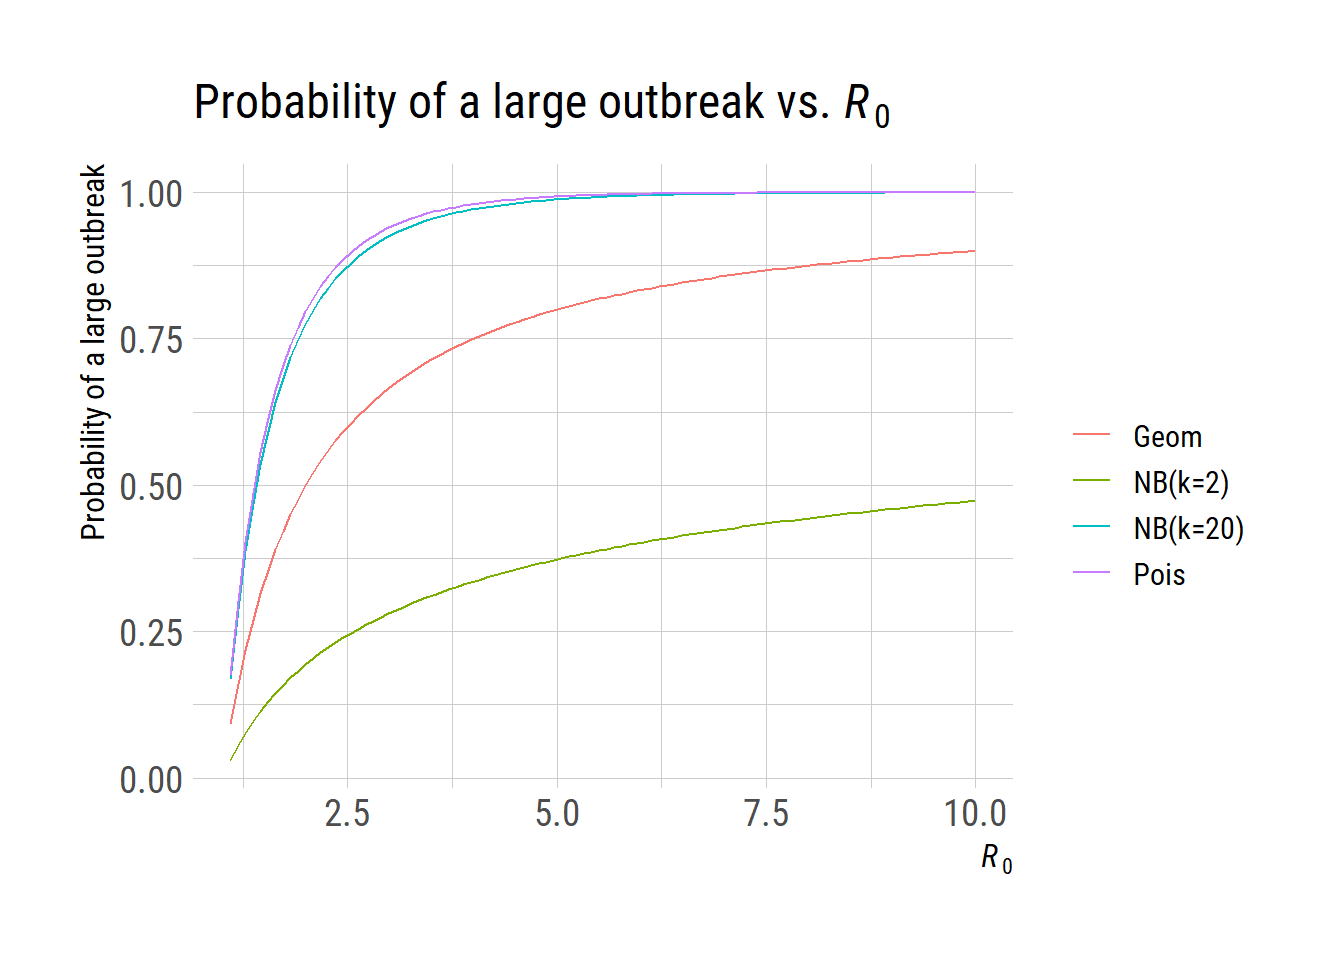
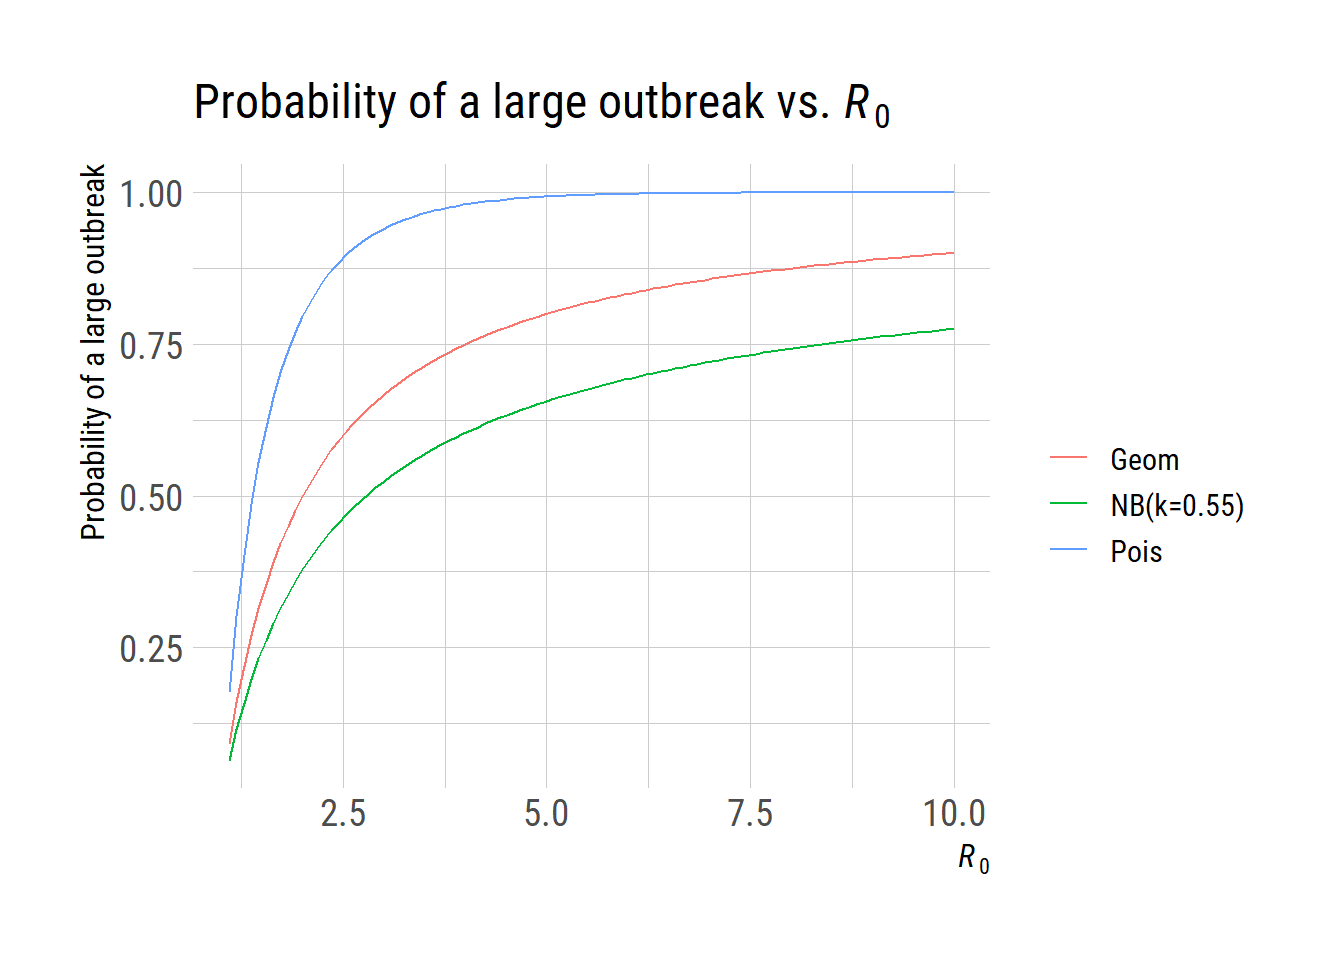
figure, k=0.55

diff --git a/docs/posts/Probabily_outbreak/index.html b/docs/posts/Probabily_outbreak/index.html
@@ -9,7 +9,7 @@
 <meta name="author" content="Jong-Hoon Kim">
 <meta name="dcterms.date" content="2024-03-04">
 
-<title>Jong-Hoon Kim’s Blog - 감염병 대유행 확률</title>
+<title>Jong-Hoon Kim’s Blog - 감염병의 대유행 가능성 계산하기</title>
 <style>
 code{white-space: pre-wrap;}
 span.smallcaps{font-variant: small-caps;}
@@ -144,7 +144,7 @@ pre > code.sourceCode > span > a:first-child::before { text-decoration: underlin
 <header id="title-block-header" class="quarto-title-block default page-columns page-full">
   <div class="quarto-title-banner page-columns page-full">
     <div class="quarto-title column-body">
-      <h1 class="title">감염병 대유행 확률</h1>
+      <h1 class="title">감염병의 대유행 가능성 계산하기</h1>
                                 <div class="quarto-categories">
                 <div class="quarto-category">probability of a large outbreak</div>
                 <div class="quarto-category">reproduction number</div>
@@ -202,7 +202,8 @@ pre > code.sourceCode > span > a:first-child::before { text-decoration: underlin
 <p><span class="math display">\[\text{Prob}(X=j) = (\frac{R_0}{1+R_0})^j \frac{1}{1+R_0}\]</span> 위에서와 동일하게 계산하면 아래와 같다. <span class="math display">\[\sum_{j=0}^\infty p_j \theta^{j} = \frac{1}{1 + R_0 - R_0 \theta}\]</span> 따라서 아래의 식을 풀면 <span class="math inline">\(\theta\)</span>를 구할 수 있다.</p>
 <p><span class="math display">\[\theta = \frac{1}{1 + R_0 - R_0 \theta}.\]</span></p>
 <p><span class="math display">\[\theta = \frac{1}{R_0}.\]</span></p>
-<p>따라서 <a href="https://www.yes24.com/Product/Goods/99051113?ReviewYn=Y">감염병 인류</a> 책에서 언급된 것처럼 <span class="math display">\[\text{대유행의 가능성} = 1 - \frac{1}{R_0}.\]</span> 마지막으로 후속 감염자수가 이항분포 (negative binomial distribution)을 따른다고 가정해보자. 최근 연구들에서 빈번하게 언급되고 가장 현실에 가까운 가정인 듯 하다. 이항분포를 다양한 모수를 사용하여 표현할 수 있고 평균 <span class="math inline">\(R_0\)</span>과 확산(dispersion; <span class="math inline">\(k\)</span>)를 이용하여 나타내면 아래와 같다.</p>
+<p>따라서 <a href="https://www.yes24.com/Product/Goods/99051113?ReviewYn=Y">감염병 인류</a> 책에서 언급된 것처럼 <span class="math display">\[\text{대유행의 가능성} = 1 - \frac{1}{R_0}.\]</span> 마지막으로 후속 감염자수가 이항분포 (negative binomial distribution)을 따른다고 가정해보자. 최근 연구들에서 빈번하게 언급되고 가장 현실에 가까운 가정인 듯 하다.</p>
+<p>다양한 모수를 사용하여 표현할 수 있고 평균 <span class="math inline">\(R_0\)</span>과 확산(dispersion; <span class="math inline">\(k\)</span>)를 이용하여 나타내면 아래와 같다. 이항 분포는 <span class="math inline">\(k=1\)</span>일 때는 기하분포와 동일하고 <span class="math inline">\(k=\infty\)</span> 일때는 푸아송분포와 동일하다. 코로나 19의 경우 <span class="math inline">\(k\)</span> 값이 약 <a href="https://www.ncbi.nlm.nih.gov/pmc/articles/PMC9349569/">0.55</a>이다.</p>
 <p><span class="math display">\[\text{Prob}(X=j) = \frac{\Gamma(k+j)}{j!\Gamma(k)}\left(\frac{k}{k+R_0}\right)^k\left(\frac{R_0}{k+R_0}\right)^j \text{ for } k=0,1,2,...\]</span> The probability of a minor outbreak, 위와 동일한 방법으로 계산하면 우변은 아래와 같다.</p>
 <p><span class="math display">\[\sum_{j=0}^\infty p_j \theta^{j} = \left(\frac{k}{k + R_0 - R_0 \theta}\right)^k\]</span> 따라서 <span class="math display">\[\theta = \left(\frac{k}{k + R_0 - R_0 \theta}\right)^k\]</span>를 계산하여 소규모감염의 확률을 계산하고 <span class="math inline">\(1-\theta\)</span>를 계산하여 대규모유행 확률을 계산하면 된다.</p>
 <p>R 시물레이션을 통해서 세방법이 어떻게 다른 결과를 나타내는지 살펴보자</p>
@@ -210,7 +211,7 @@ pre > code.sourceCode > span > a:first-child::before { text-decoration: underlin
 <div class="sourceCode cell-code" id="cb1"><pre class="sourceCode r code-with-copy"><code class="sourceCode r"><span id="cb1-1"><a href="#cb1-1" aria-hidden="true" tabindex="-1"></a>prob_outbreak_pois <span class="ot">=</span> <span class="cf">function</span>(theta, R0){</span>
 <span id="cb1-2"><a href="#cb1-2" aria-hidden="true" tabindex="-1"></a>  theta <span class="sc">-</span> <span class="fu">exp</span>(<span class="sc">-</span>R0 <span class="sc">+</span> R0<span class="sc">*</span>theta) </span>
 <span id="cb1-3"><a href="#cb1-3" aria-hidden="true" tabindex="-1"></a>}</span>
-<span id="cb1-4"><a href="#cb1-4" aria-hidden="true" tabindex="-1"></a>prob_outbreak_geo <span class="ot">=</span> <span class="cf">function</span>(theta, R0){</span>
+<span id="cb1-4"><a href="#cb1-4" aria-hidden="true" tabindex="-1"></a>prob_outbreak_geo <span class="ot">=</span> <span class="cf">function</span>(R0){</span>
 <span id="cb1-5"><a href="#cb1-5" aria-hidden="true" tabindex="-1"></a>  <span class="dv">1</span><span class="sc">/</span>R0 </span>
 <span id="cb1-6"><a href="#cb1-6" aria-hidden="true" tabindex="-1"></a>}</span>
 <span id="cb1-7"><a href="#cb1-7" aria-hidden="true" tabindex="-1"></a>prob_outbreak_nb <span class="ot">=</span> <span class="cf">function</span>(theta, R0, k){</span>
@@ -224,28 +225,26 @@ pre > code.sourceCode > span > a:first-child::before { text-decoration: underlin
 <span id="cb1-15"><a href="#cb1-15" aria-hidden="true" tabindex="-1"></a>Rs <span class="ot">&lt;-</span> <span class="fu">seq</span>(<span class="fl">1.1</span>, <span class="dv">10</span>, <span class="at">length.out=</span><span class="dv">100</span>)</span>
 <span id="cb1-16"><a href="#cb1-16" aria-hidden="true" tabindex="-1"></a>theta1 <span class="ot">&lt;-</span> <span class="fu">sapply</span>(Rs, <span class="cf">function</span>(x) </span>
 <span id="cb1-17"><a href="#cb1-17" aria-hidden="true" tabindex="-1"></a>  <span class="fu">min</span>(rootSolve<span class="sc">::</span><span class="fu">multiroot</span>(prob_outbreak_pois, <span class="fu">c</span>(<span class="dv">0</span>, <span class="dv">1</span>), <span class="at">R0=</span>x)<span class="sc">$</span>root))</span>
-<span id="cb1-18"><a href="#cb1-18" aria-hidden="true" tabindex="-1"></a>theta2 <span class="ot">&lt;-</span> <span class="fu">sapply</span>(Rs, <span class="cf">function</span>(x) <span class="dv">1</span><span class="sc">/</span>x)</span>
+<span id="cb1-18"><a href="#cb1-18" aria-hidden="true" tabindex="-1"></a>theta2 <span class="ot">&lt;-</span> <span class="fu">sapply</span>(Rs, <span class="cf">function</span>(x) <span class="fu">prob_outbreak_geo</span>(x))</span>
 <span id="cb1-19"><a href="#cb1-19" aria-hidden="true" tabindex="-1"></a>theta3 <span class="ot">&lt;-</span> <span class="fu">sapply</span>(Rs, <span class="cf">function</span>(x) </span>
-<span id="cb1-20"><a href="#cb1-20" aria-hidden="true" tabindex="-1"></a>  <span class="fu">min</span>(rootSolve<span class="sc">::</span><span class="fu">multiroot</span>(prob_outbreak_nb, <span class="fu">c</span>(<span class="dv">0</span>, <span class="dv">1</span>), <span class="at">R0=</span>x, <span class="at">k=</span><span class="dv">20</span>)<span class="sc">$</span>root))</span>
-<span id="cb1-21"><a href="#cb1-21" aria-hidden="true" tabindex="-1"></a>theta4 <span class="ot">&lt;-</span> <span class="fu">sapply</span>(Rs, <span class="cf">function</span>(x) </span>
-<span id="cb1-22"><a href="#cb1-22" aria-hidden="true" tabindex="-1"></a>  <span class="fu">min</span>(rootSolve<span class="sc">::</span><span class="fu">multiroot</span>(prob_outbreak_nb, <span class="fu">c</span>(<span class="dv">0</span>, <span class="dv">1</span>), <span class="at">R0=</span>x, <span class="at">k=</span><span class="fl">0.2</span>)<span class="sc">$</span>root))</span>
-<span id="cb1-23"><a href="#cb1-23" aria-hidden="true" tabindex="-1"></a></span>
-<span id="cb1-24"><a href="#cb1-24" aria-hidden="true" tabindex="-1"></a>df <span class="ot">&lt;-</span> <span class="fu">data.frame</span>(<span class="at">R0=</span><span class="fu">rep</span>(Rs,<span class="dv">4</span>), </span>
-<span id="cb1-25"><a href="#cb1-25" aria-hidden="true" tabindex="-1"></a>                 <span class="at">dist=</span><span class="fu">rep</span>(<span class="fu">c</span>(<span class="st">"Pois"</span>,<span class="st">"Geom"</span>,<span class="st">"NB(k=20)"</span>,<span class="st">"NB(k=2)"</span>),<span class="at">each=</span><span class="dv">100</span>),</span>
-<span id="cb1-26"><a href="#cb1-26" aria-hidden="true" tabindex="-1"></a>                 <span class="at">prob_outbreak=</span><span class="fu">c</span>(<span class="dv">1</span><span class="sc">-</span>theta1,<span class="dv">1</span><span class="sc">-</span>theta2,<span class="dv">1</span><span class="sc">-</span>theta3,<span class="dv">1</span><span class="sc">-</span>theta4))</span>
-<span id="cb1-27"><a href="#cb1-27" aria-hidden="true" tabindex="-1"></a></span>
-<span id="cb1-28"><a href="#cb1-28" aria-hidden="true" tabindex="-1"></a><span class="fu">library</span>(ggplot2)</span>
-<span id="cb1-29"><a href="#cb1-29" aria-hidden="true" tabindex="-1"></a>extrafont<span class="sc">::</span><span class="fu">loadfonts</span>(<span class="st">"win"</span>, <span class="at">quiet=</span><span class="cn">TRUE</span>)</span>
-<span id="cb1-30"><a href="#cb1-30" aria-hidden="true" tabindex="-1"></a><span class="fu">theme_set</span>(hrbrthemes<span class="sc">::</span><span class="fu">theme_ipsum_rc</span>(<span class="at">base_size=</span><span class="dv">14</span>, <span class="at">subtitle_size=</span><span class="dv">16</span>, </span>
-<span id="cb1-31"><a href="#cb1-31" aria-hidden="true" tabindex="-1"></a>                                     <span class="at">axis_title_size=</span><span class="dv">12</span>))</span>
-<span id="cb1-32"><a href="#cb1-32" aria-hidden="true" tabindex="-1"></a></span>
-<span id="cb1-33"><a href="#cb1-33" aria-hidden="true" tabindex="-1"></a><span class="fu">ggplot</span>(df) <span class="sc">+</span></span>
-<span id="cb1-34"><a href="#cb1-34" aria-hidden="true" tabindex="-1"></a>  <span class="fu">geom_line</span>(<span class="fu">aes</span>(R0, prob_outbreak, <span class="at">color=</span>dist))<span class="sc">+</span></span>
-<span id="cb1-35"><a href="#cb1-35" aria-hidden="true" tabindex="-1"></a>  <span class="fu">ggtitle</span>(<span class="fu">expression</span>(<span class="st">"Probability of a large outbreak vs."</span> <span class="sc">~</span><span class="fu">italic</span>(R)[<span class="dv">0</span>])) <span class="sc">+</span></span>
-<span id="cb1-36"><a href="#cb1-36" aria-hidden="true" tabindex="-1"></a>  <span class="fu">labs</span>(<span class="at">y=</span><span class="st">"Probability of a large outbreak"</span>, <span class="at">x=</span><span class="fu">expression</span>(<span class="fu">italic</span>(R)[<span class="dv">0</span>]), <span class="at">color=</span><span class="st">""</span>)</span></code><button title="Copy to Clipboard" class="code-copy-button"><i class="bi"></i></button></pre></div>
+<span id="cb1-20"><a href="#cb1-20" aria-hidden="true" tabindex="-1"></a>   <span class="fu">min</span>(rootSolve<span class="sc">::</span><span class="fu">multiroot</span>(prob_outbreak_nb, <span class="fu">c</span>(<span class="dv">0</span>, <span class="dv">1</span>), <span class="at">R0=</span>x, <span class="at">k=</span><span class="fl">0.55</span>)<span class="sc">$</span>root))</span>
+<span id="cb1-21"><a href="#cb1-21" aria-hidden="true" tabindex="-1"></a>df <span class="ot">&lt;-</span> <span class="fu">data.frame</span>(<span class="at">R0=</span><span class="fu">rep</span>(Rs,<span class="dv">3</span>), </span>
+<span id="cb1-22"><a href="#cb1-22" aria-hidden="true" tabindex="-1"></a>                 <span class="at">dist=</span><span class="fu">rep</span>(<span class="fu">c</span>(<span class="st">"Pois"</span>,<span class="st">"Geom"</span>,<span class="st">"NB(k=0.55)"</span>),<span class="at">each=</span><span class="dv">100</span>),</span>
+<span id="cb1-23"><a href="#cb1-23" aria-hidden="true" tabindex="-1"></a>                 <span class="at">prob_outbreak=</span><span class="fu">c</span>(<span class="dv">1</span><span class="sc">-</span>theta1,<span class="dv">1</span><span class="sc">-</span>theta2,<span class="dv">1</span><span class="sc">-</span>theta3))</span>
+<span id="cb1-24"><a href="#cb1-24" aria-hidden="true" tabindex="-1"></a></span>
+<span id="cb1-25"><a href="#cb1-25" aria-hidden="true" tabindex="-1"></a><span class="fu">library</span>(ggplot2)</span>
+<span id="cb1-26"><a href="#cb1-26" aria-hidden="true" tabindex="-1"></a>extrafont<span class="sc">::</span><span class="fu">loadfonts</span>(<span class="st">"win"</span>, <span class="at">quiet=</span><span class="cn">TRUE</span>)</span>
+<span id="cb1-27"><a href="#cb1-27" aria-hidden="true" tabindex="-1"></a><span class="fu">theme_set</span>(hrbrthemes<span class="sc">::</span><span class="fu">theme_ipsum_rc</span>(<span class="at">base_size=</span><span class="dv">14</span>, <span class="at">subtitle_size=</span><span class="dv">16</span>, </span>
+<span id="cb1-28"><a href="#cb1-28" aria-hidden="true" tabindex="-1"></a>                                     <span class="at">axis_title_size=</span><span class="dv">12</span>))</span>
+<span id="cb1-29"><a href="#cb1-29" aria-hidden="true" tabindex="-1"></a></span>
+<span id="cb1-30"><a href="#cb1-30" aria-hidden="true" tabindex="-1"></a><span class="fu">ggplot</span>(df) <span class="sc">+</span></span>
+<span id="cb1-31"><a href="#cb1-31" aria-hidden="true" tabindex="-1"></a>  <span class="fu">geom_line</span>(<span class="fu">aes</span>(R0, prob_outbreak, <span class="at">color=</span>dist))<span class="sc">+</span></span>
+<span id="cb1-32"><a href="#cb1-32" aria-hidden="true" tabindex="-1"></a>  <span class="fu">ggtitle</span>(<span class="fu">expression</span>(<span class="st">"Probability of a large outbreak vs."</span> <span class="sc">~</span><span class="fu">italic</span>(R)[<span class="dv">0</span>])) <span class="sc">+</span></span>
+<span id="cb1-33"><a href="#cb1-33" aria-hidden="true" tabindex="-1"></a>  <span class="fu">labs</span>(<span class="at">y=</span><span class="st">"Probability of a large outbreak"</span>, <span class="at">x=</span><span class="fu">expression</span>(<span class="fu">italic</span>(R)[<span class="dv">0</span>]), <span class="at">color=</span><span class="st">""</span>)</span></code><button title="Copy to Clipboard" class="code-copy-button"><i class="bi"></i></button></pre></div>
 <div class="cell-output-display">
 <p><img src="index_files/figure-html/unnamed-chunk-1-1.png" class="img-fluid" width="672"></p>
 </div>
+<div class="sourceCode cell-code" id="cb2"><pre class="sourceCode r code-with-copy"><code class="sourceCode r"><span id="cb2-1"><a href="#cb2-1" aria-hidden="true" tabindex="-1"></a><span class="co"># ggsave("outbreak_prob.png", units="in", width=3.4*2, height=2.7*2)  </span></span></code><button title="Copy to Clipboard" class="code-copy-button"><i class="bi"></i></button></pre></div>
 </div>
 
 

diff --git a/docs/index.html b/docs/index.html
@@ -154,14 +154,14 @@ ul.task-list li input[type="checkbox"] {
 
 <div class="quarto-listing quarto-listing-container-default" id="listing-listing">
 <div class="list quarto-listing-default">
-<div class="quarto-post image-right" data-index="0" data-categories="probability of a large outbreak,reproduction number" data-listing-date-sort="1709478000000" data-listing-file-modified-sort="1710045975369" data-listing-date-modified-sort="NaN" data-listing-reading-time-sort="4">
+<div class="quarto-post image-right" data-index="0" data-categories="probability of a large outbreak,reproduction number" data-listing-date-sort="1709478000000" data-listing-file-modified-sort="1710051937236" data-listing-date-modified-sort="NaN" data-listing-reading-time-sort="4">
 <div class="thumbnail">
-<p><a href="./posts/Probabily_outbreak/index.html"> <img src="./posts/Probabily_outbreak/gates-climate-book.jpg" class="thumbnail-image"> </a></p>
+<p><a href="./posts/Probabily_outbreak/index.html"> <img src="./posts/Probabily_outbreak/outbreak_prob.png" class="thumbnail-image"> </a></p>
 </div>
 <div class="body">
 <a href="./posts/Probabily_outbreak/index.html">
 <h3 class="no-anchor listing-title">
-감염병 대유행 확률
+감염병의 대유행 가능성 계산하기
 </h3>
 <div class="listing-subtitle">
 
